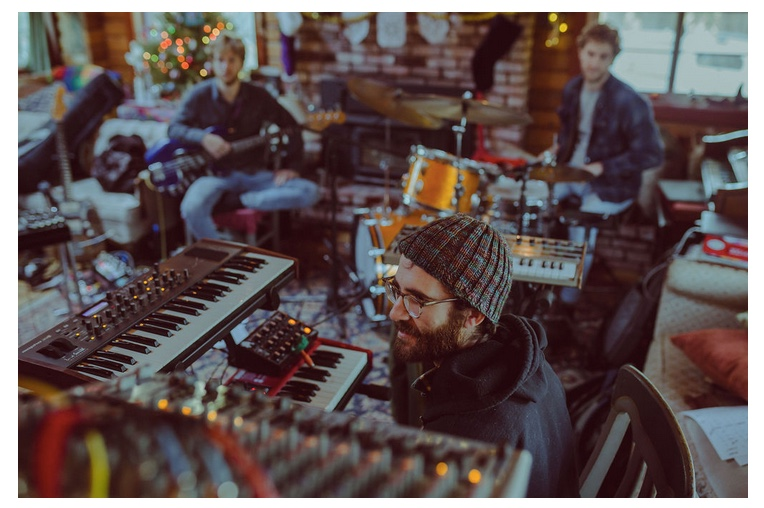
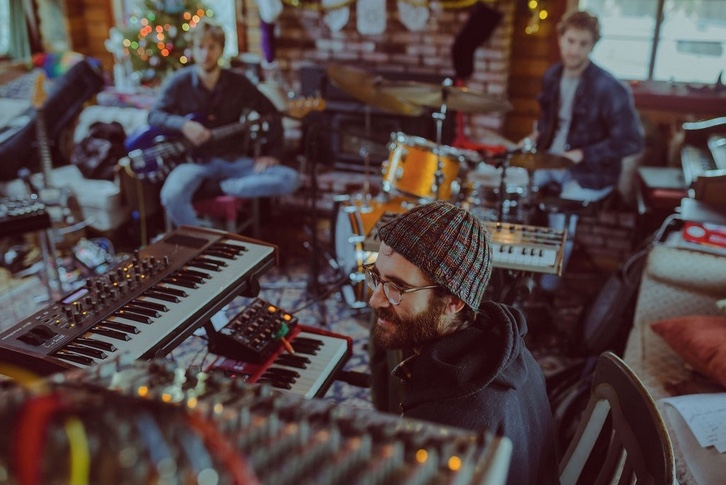
worked on some styling. download resume file is linked wrong

diff --git a/src/components/pages/Home.js b/src/components/pages/Home.js
@@ -8,7 +8,6 @@ export default function Home() {
     return (
         <div 
         style={styles.container}>
-            <img src={hero} alt='hero' style={styles.hero}/>
         <p style={styles.font}>I am a piano teacher and husky wrangler. I live in San Diego California with my
             wife, Cecee, our four dogs, and a tortoise named Frank.
         </p>
@@ -22,6 +21,7 @@ export default function Home() {
             hope
             to merge both coding and music to continue both my loves.
         </p>
+            <img src={hero} alt='hero' style={styles.hero}/>
 
     </div>
     );

diff --git a/src/styles/styles.css b/src/styles/styles.css
@@ -40,6 +40,7 @@ nav a {
     text-decoration: none;
     color: var(--white);
     letter-spacing: 1px;
+    padding-bottom: 5px;
 }
 
 .nav-item:hover {
@@ -127,7 +128,7 @@ section p {
 
 div img {
     height: 200px;
-    margin: 5px;
+    margin: 1.5rem;
     border: 2px solid var(--brown);
     display: flex;
     justify-content: flex-end;
@@ -190,6 +191,8 @@ h4 {
     padding: 2em;
     display: flex;
     justify-content: space-around;
+    background-color: #cecece;
+
 }
 
 

diff --git a/src/styles/styles.js b/src/styles/styles.js
@@ -19,13 +19,15 @@ const styles = {
     },
     container: {
         margin: '1rem',
+        padding: '1em',
         backgroundColor: '#cecece',
     },
     font: {
       fontFamily: 'raleway'
     },
     hero: {
-      width: '100%',
+      alignContent: 'center',
+      width: '90%',
       height: '500px'
     },
     project: {

diff --git a/src/components/pages/Contact.js b/src/components/pages/Contact.js
@@ -13,6 +13,7 @@ export default function Contact() {
     return (
 <div 
 className="address"
+style={styles.container}
     >
         <h2>
         Contact Me
